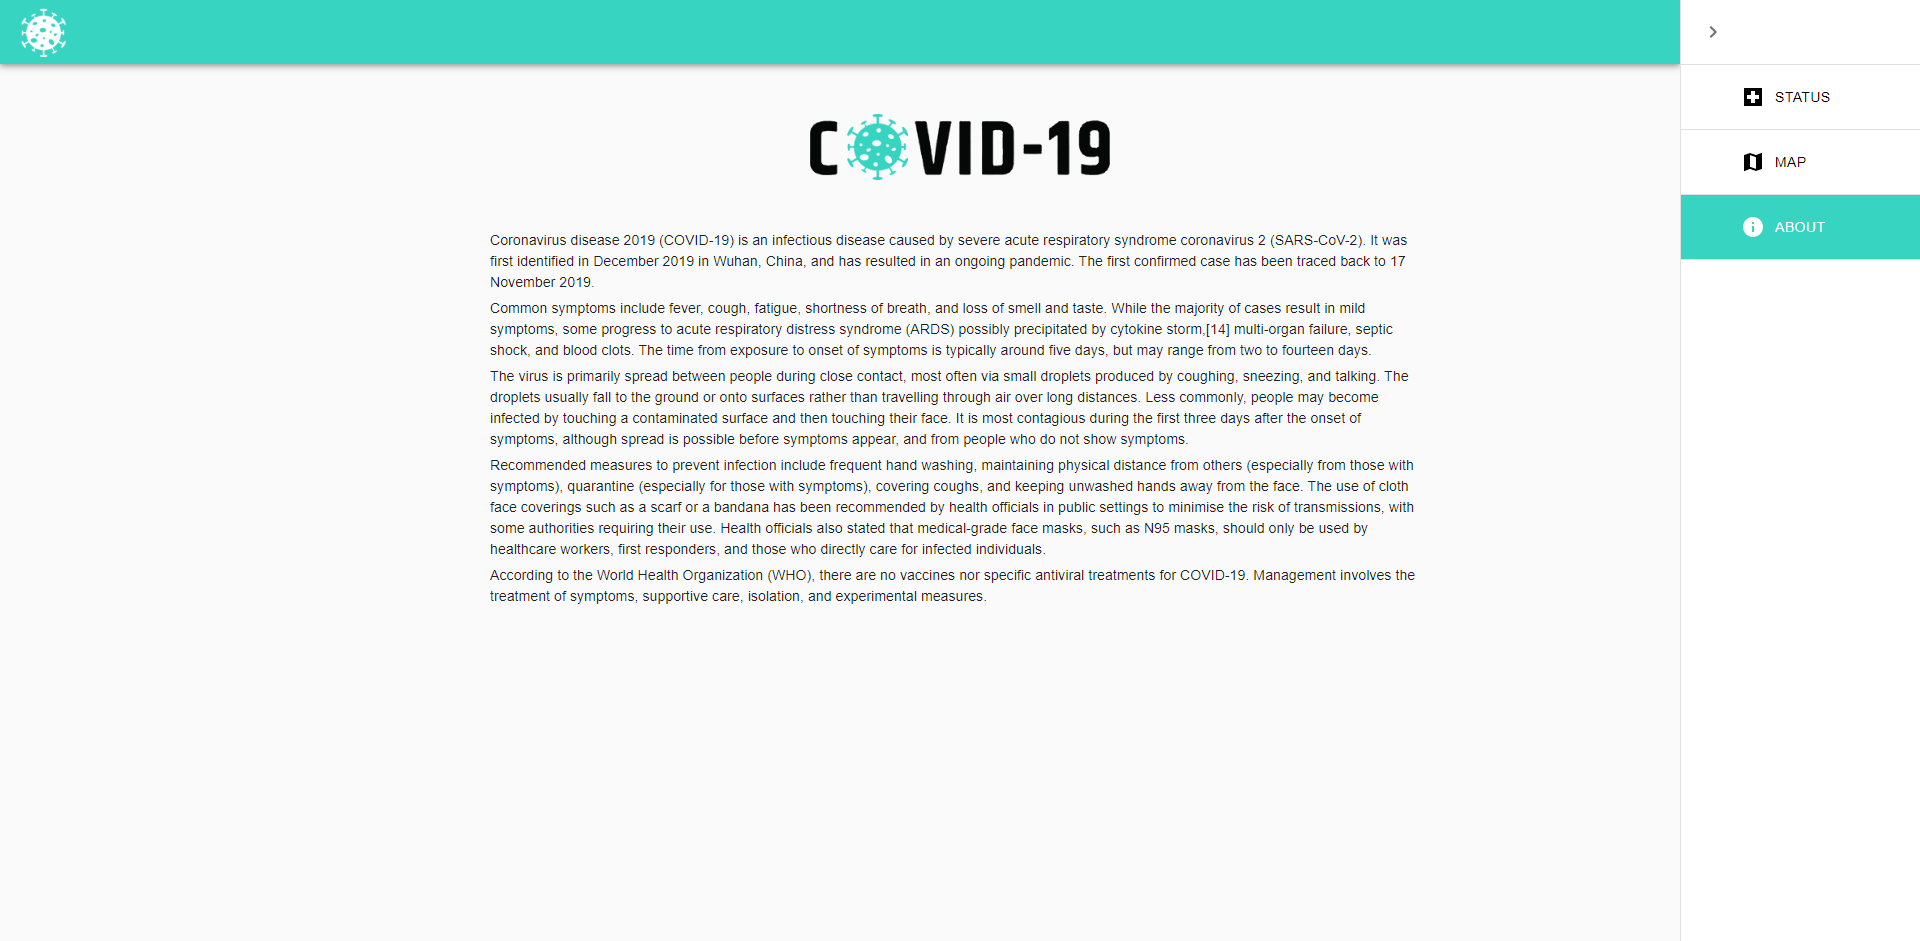
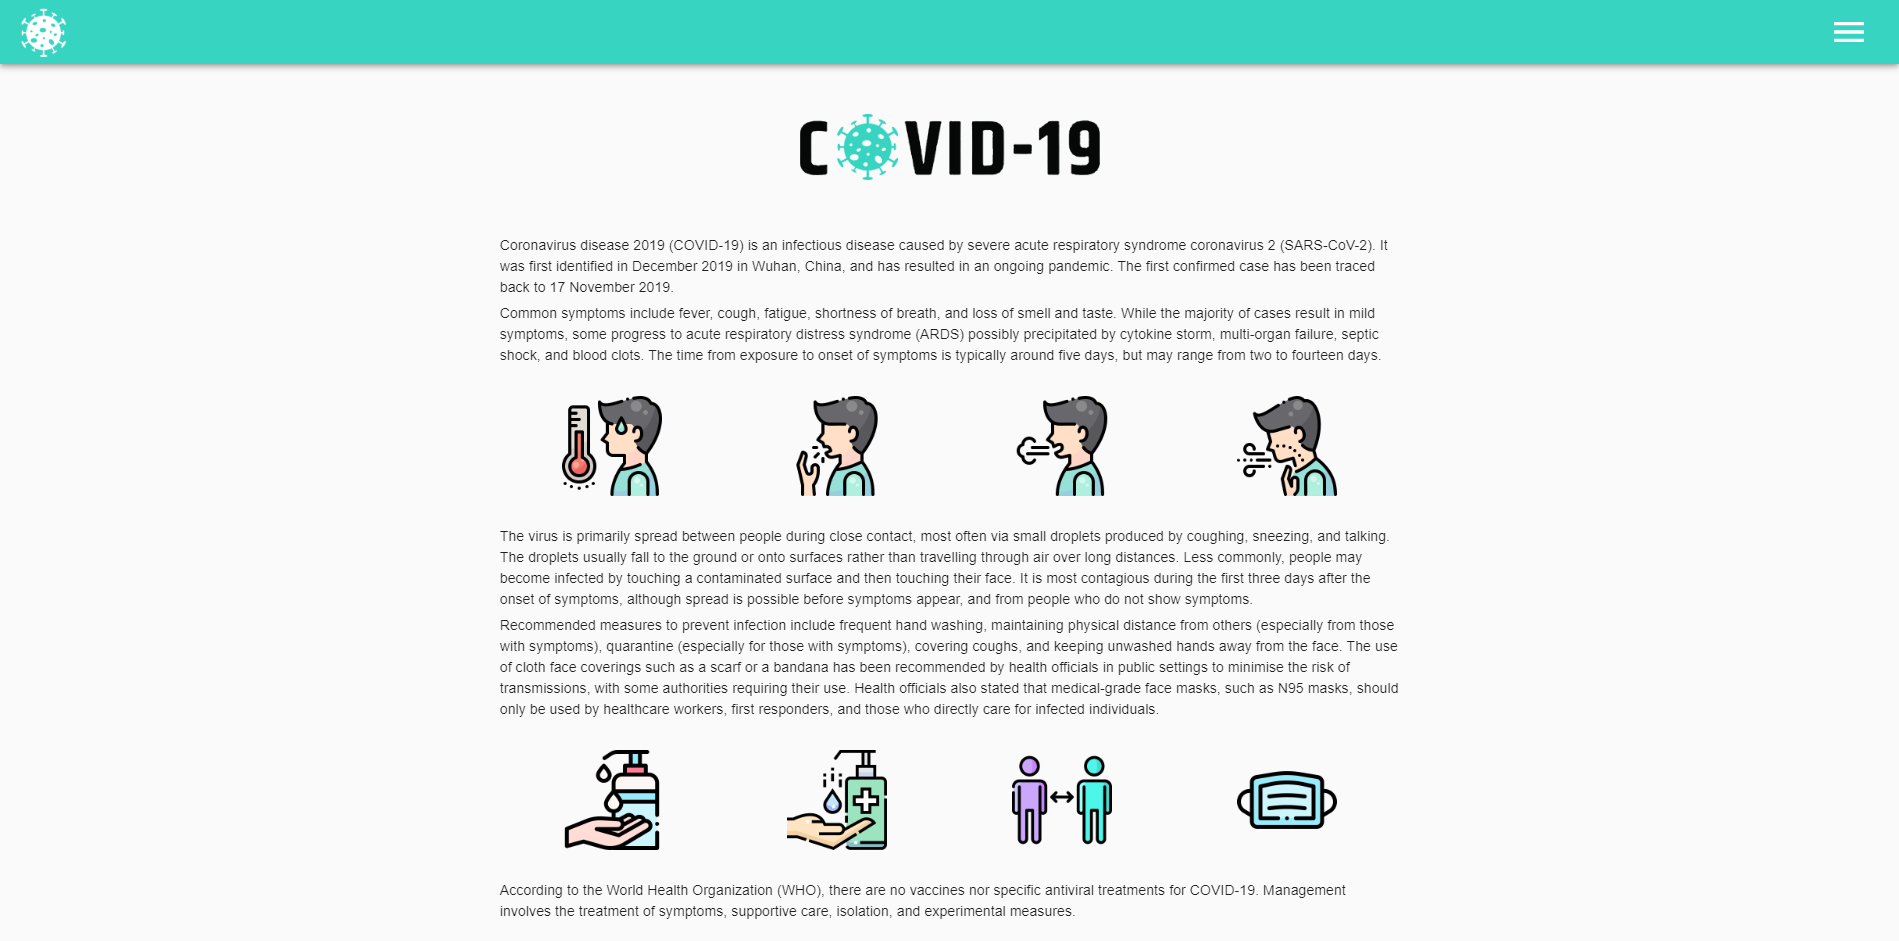
About & Cover components modified

diff --git a/src/components/About/About.jsx b/src/components/About/About.jsx
@@ -3,6 +3,16 @@ import React from 'react';
 // COMPONENTS
 import Cover from '../Cover/Cover';
 
+// ICONS
+import feverIcon from '../../assets/icons/fever.png';
+import coughIcon from '../../assets/icons/cough.png';
+import fatigueIcon from '../../assets/icons/fatigue.png';
+import breathingIcon from '../../assets/icons/breathing.png';
+import soapIcon from '../../assets/icons/soap.png';
+import alcoholGelIcon from '../../assets/icons/alcohol-gel.png';
+import distanceIcon from '../../assets/icons/distance.png';
+import protectionMaskIcon from '../../assets/icons/protection-mask.png';
+
 // MATERIAL UI
 import { makeStyles } from '@material-ui/core/styles';
 import { Typography, Grid } from '@material-ui/core';
@@ -16,6 +26,19 @@ const useStyles = makeStyles((theme) => ({
     text: {
         marginBottom: 50,
         padding: '0 25px'
+    },
+    iconContainer: {
+        display: 'flex',
+        justifyContent: 'space-around',
+        margin: '30px 0'
+    },
+    icon: {
+        width: 100,
+        height: 100,
+        '@media screen and (max-width: 599px)': {
+            width: 50,
+            height: 50,
+        }
     }
 }));
 
@@ -25,11 +48,23 @@ const About = () => {
     return (
         <Grid container className={classes.root}>
             <Cover />
-            <Grid item xs={12} md={6} className={classes.text}>
+            <Grid item xs={12} md={8} lg={6} className={classes.text}>
                 <Typography variant="subtitle2" gutterBottom>Coronavirus disease 2019 (COVID-19) is an infectious disease caused by severe acute respiratory syndrome coronavirus 2 (SARS-CoV-2). It was first identified in December 2019 in Wuhan, China, and has resulted in an ongoing pandemic. The first confirmed case has been traced back to 17 November 2019.</Typography>
-                <Typography variant="subtitle2" gutterBottom>Common symptoms include fever, cough, fatigue, shortness of breath, and loss of smell and taste. While the majority of cases result in mild symptoms, some progress to acute respiratory distress syndrome (ARDS) possibly precipitated by cytokine storm,[14] multi-organ failure, septic shock, and blood clots. The time from exposure to onset of symptoms is typically around five days, but may range from two to fourteen days.</Typography>
+                <Typography variant="subtitle2" gutterBottom>Common symptoms include fever, cough, fatigue, shortness of breath, and loss of smell and taste. While the majority of cases result in mild symptoms, some progress to acute respiratory distress syndrome (ARDS) possibly precipitated by cytokine storm, multi-organ failure, septic shock, and blood clots. The time from exposure to onset of symptoms is typically around five days, but may range from two to fourteen days.</Typography>
+                <div className={classes.iconContainer}>
+                    <img className={classes.icon} src={feverIcon} alt="fever" />
+                    <img className={classes.icon} src={coughIcon} alt="cough" />
+                    <img className={classes.icon} src={fatigueIcon} alt="fatigue" />
+                    <img className={classes.icon} src={breathingIcon} alt="breathing" />
+                </div>
                 <Typography variant="subtitle2" gutterBottom>The virus is primarily spread between people during close contact, most often via small droplets produced by coughing, sneezing, and talking. The droplets usually fall to the ground or onto surfaces rather than travelling through air over long distances. Less commonly, people may become infected by touching a contaminated surface and then touching their face. It is most contagious during the first three days after the onset of symptoms, although spread is possible before symptoms appear, and from people who do not show symptoms.</Typography>
                 <Typography variant="subtitle2" gutterBottom>Recommended measures to prevent infection include frequent hand washing, maintaining physical distance from others (especially from those with symptoms), quarantine (especially for those with symptoms), covering coughs, and keeping unwashed hands away from the face. The use of cloth face coverings such as a scarf or a bandana has been recommended by health officials in public settings to minimise the risk of transmissions, with some authorities requiring their use. Health officials also stated that medical-grade face masks, such as N95 masks, should only be used by healthcare workers, first responders, and those who directly care for infected individuals.</Typography>
+                <div className={classes.iconContainer}>
+                    <img className={classes.icon} src={soapIcon} alt="hand-wash" />
+                    <img className={classes.icon} src={alcoholGelIcon} alt="desinfection-gel" />
+                    <img className={classes.icon} src={distanceIcon} alt="distance" />
+                    <img className={classes.icon} src={protectionMaskIcon} alt="protection-mask" />
+                </div>
                 <Typography variant="subtitle2" gutterBottom>According to the World Health Organization (WHO), there are no vaccines nor specific antiviral treatments for COVID-19. Management involves the treatment of symptoms, supportive care, isolation, and experimental measures.</Typography>
             </Grid>
         </Grid>

diff --git a/src/components/Cover/Cover.jsx b/src/components/Cover/Cover.jsx
@@ -5,7 +5,7 @@ import { makeStyles } from '@material-ui/core/styles';
 import { Grid } from '@material-ui/core';
 
 // ASSETS
-import image from '../../assets/image.png';
+import image from '../../assets/cover.png';
 
 const useStyles = makeStyles((theme) => ({
     imageContainer: {
